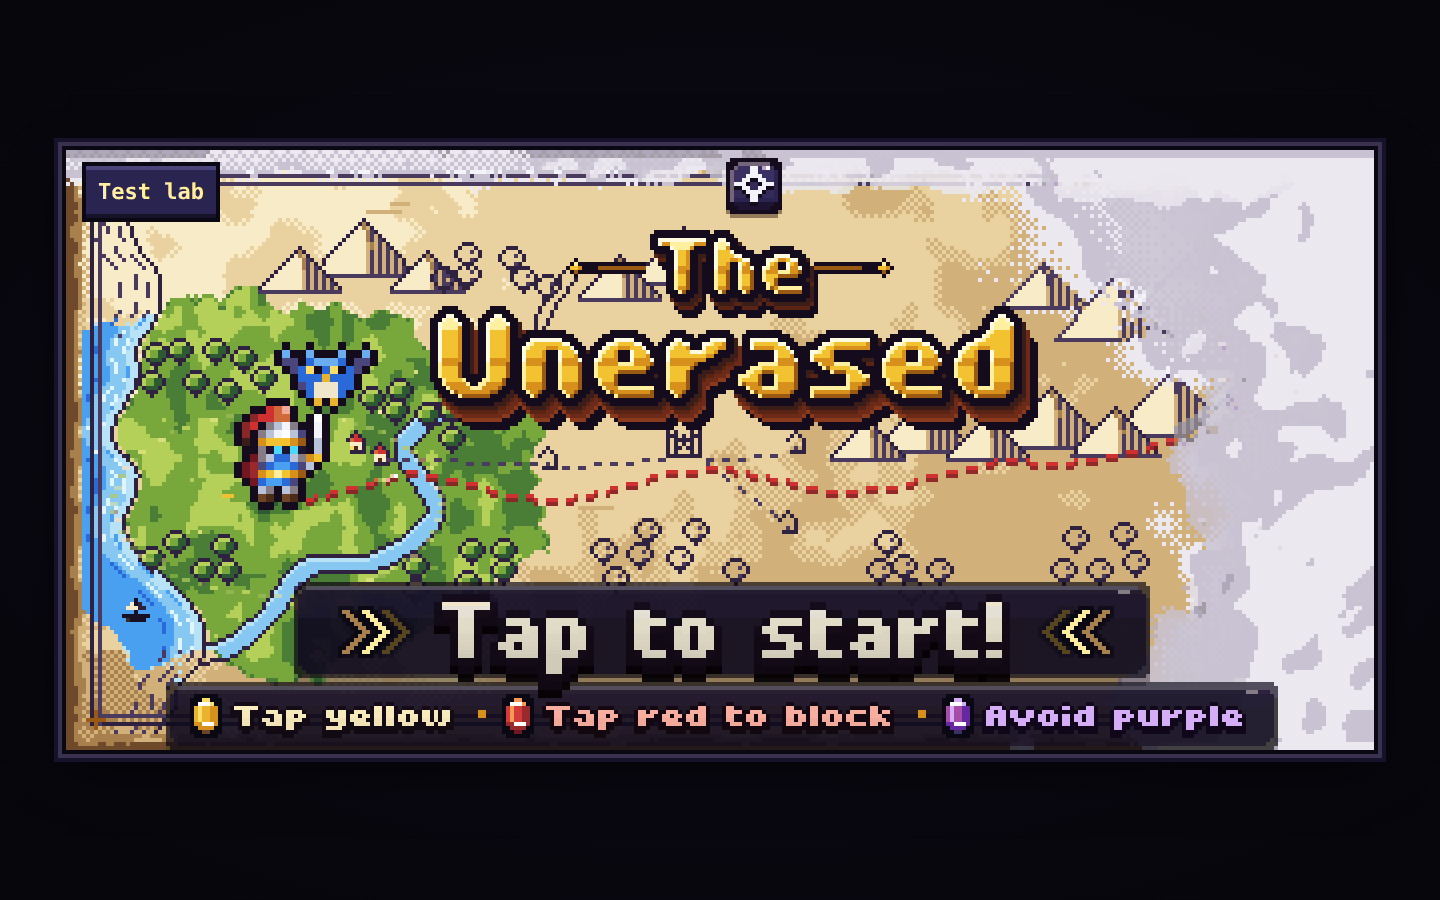
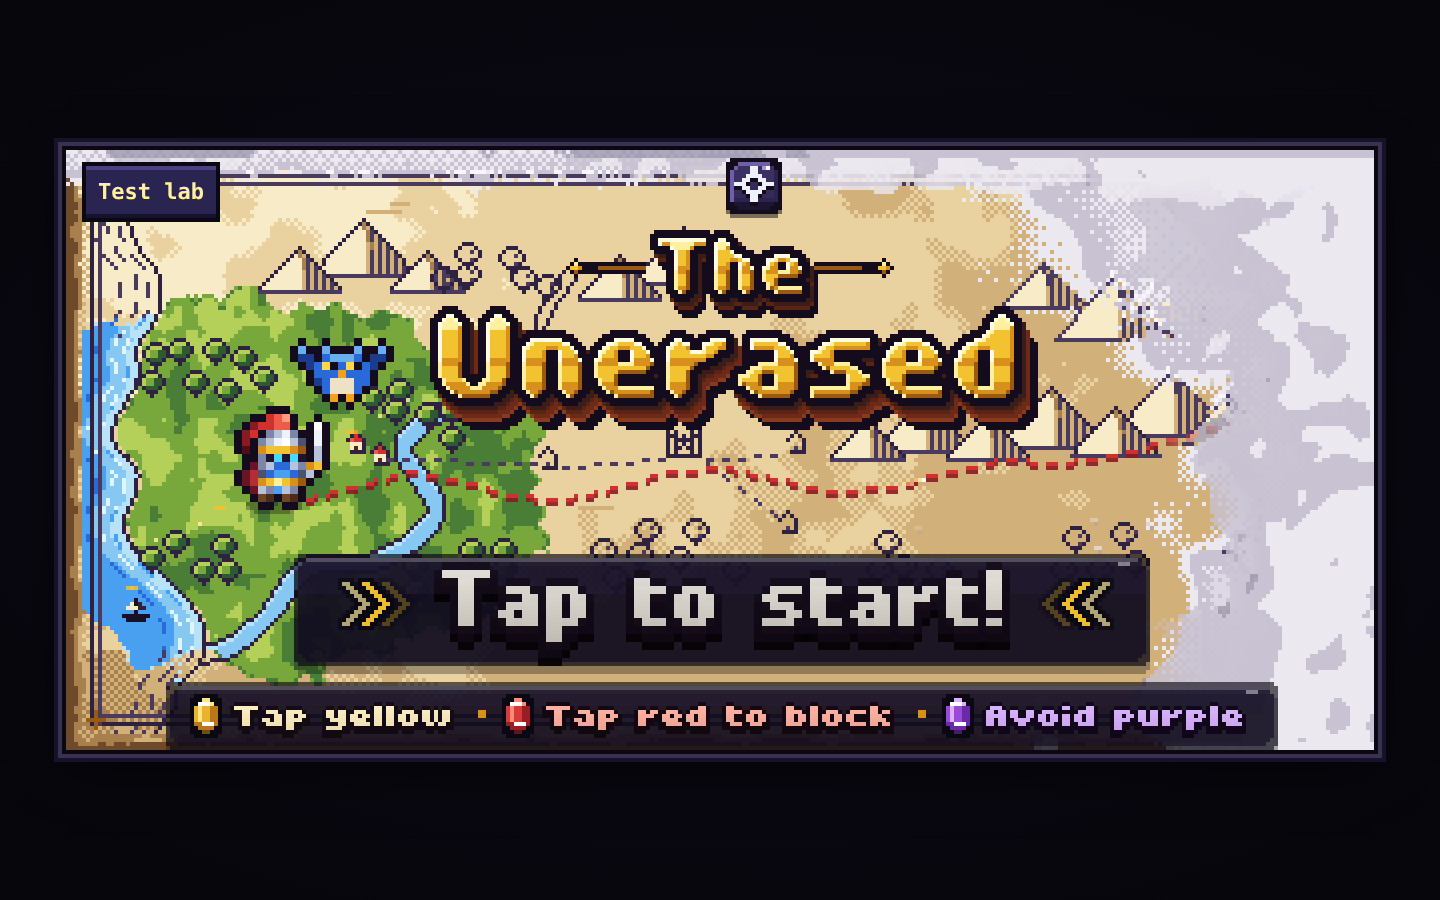
Title: the start prompt's plate holds its descenders and sits clear of the legend at the foot (phone and desktop)
Claude-Session: https://claude.ai/code/session_01XHk7WXwUp52tGKCfxLyk6o

diff --git a/src/engine/view/title.ts b/src/engine/view/title.ts
@@ -230,7 +230,7 @@ export class TitleScreen {
     const w = textWidth(text, 2, true);
     const p = pulse(now, 900);
     const cx = Math.round(GAME_W / 2);
-    const r: Rect = { x: cx - Math.round(w / 2) - 34, y: cy - 11, w: w + 68, h: 22 };
+    const r: Rect = { x: cx - Math.round(w / 2) - 34, y: cy - 11, w: w + 68, h: 26 }; // (room for the descenders: the p of "Tap")
     glass(gc, r, { alpha: 0.9 * alpha, clear: 0.2 });
     for (const side of [-1, 1])
       for (let i = 0; i < 3; i++) {
@@ -238,7 +238,7 @@ export class TitleScreen {
         const x = Math.round(cx + side * (w / 2 + 26 - k * 14));
         chevron(gc, x, cy - 5, 11, i === 0 ? GOLD[4] : GOLD[3], alpha * Math.sin(k * Math.PI), -side, true);
       }
-    texts.text(text, cx, cy + 1, mix(WHITE, 0xfff0a0, 0.5 * p), { bold: true, scale: 2, ox: 0.5, oy: 0.5, alpha: alpha * (0.85 + 0.15 * p), extrude: 1, extrudeCol: 0x3a1c18 });
+    texts.text(text, cx, cy, mix(WHITE, 0xfff0a0, 0.5 * p), { bold: true, scale: 2, ox: 0.5, oy: 0.5, alpha: alpha * (0.85 + 0.15 * p), extrude: 1, extrudeCol: 0x3a1c18 });
   }
 
   /** The legend: the three blocks a first fight teaches, as a map's key on a small plate. */

diff --git a/src/engine/view/overlays.ts b/src/engine/view/overlays.ts
@@ -688,8 +688,9 @@ export class Overlays {
         this.texts.text(armed ? 'Tap again' : 'New game', fresh.x + fresh.w / 2, fresh.y + dy + 7 + pf, WHITE, { bold: true, ox: 0.5, oy: 0.5 });
         this.texts.text('Erases all', fresh.x + fresh.w / 2, fresh.y + dy + 16 + pf, armed ? 0xffe0a0 : 0xc8c0e8, { ox: 0.5, oy: 0.5 });
       }
-    } else if (pa > 0) this.title.drawPrompt(gc, this.texts, 'Tap to start!', s.splitY + 16, now, pa);
-    if (pa > 0) this.title.drawLegend(gc, this.texts, Math.min(s.B - 9, s.splitY + 32 + Math.round((GAME_H - s.splitY - 32 - (GAME_H - s.B)) / 2)), pa);
+    } else if (pa > 0) this.title.drawPrompt(gc, this.texts, 'Tap to start!', s.splitY + 9, now, pa);
+    // the legend sits at the foot, clear of the prompt's plate (and its shadow) above it
+    if (pa > 0) this.title.drawLegend(gc, this.texts, Math.min(s.B - 8, GAME_H - 9), pa);
   }
 
   // ------------------------------------------------------------------ boost pick
